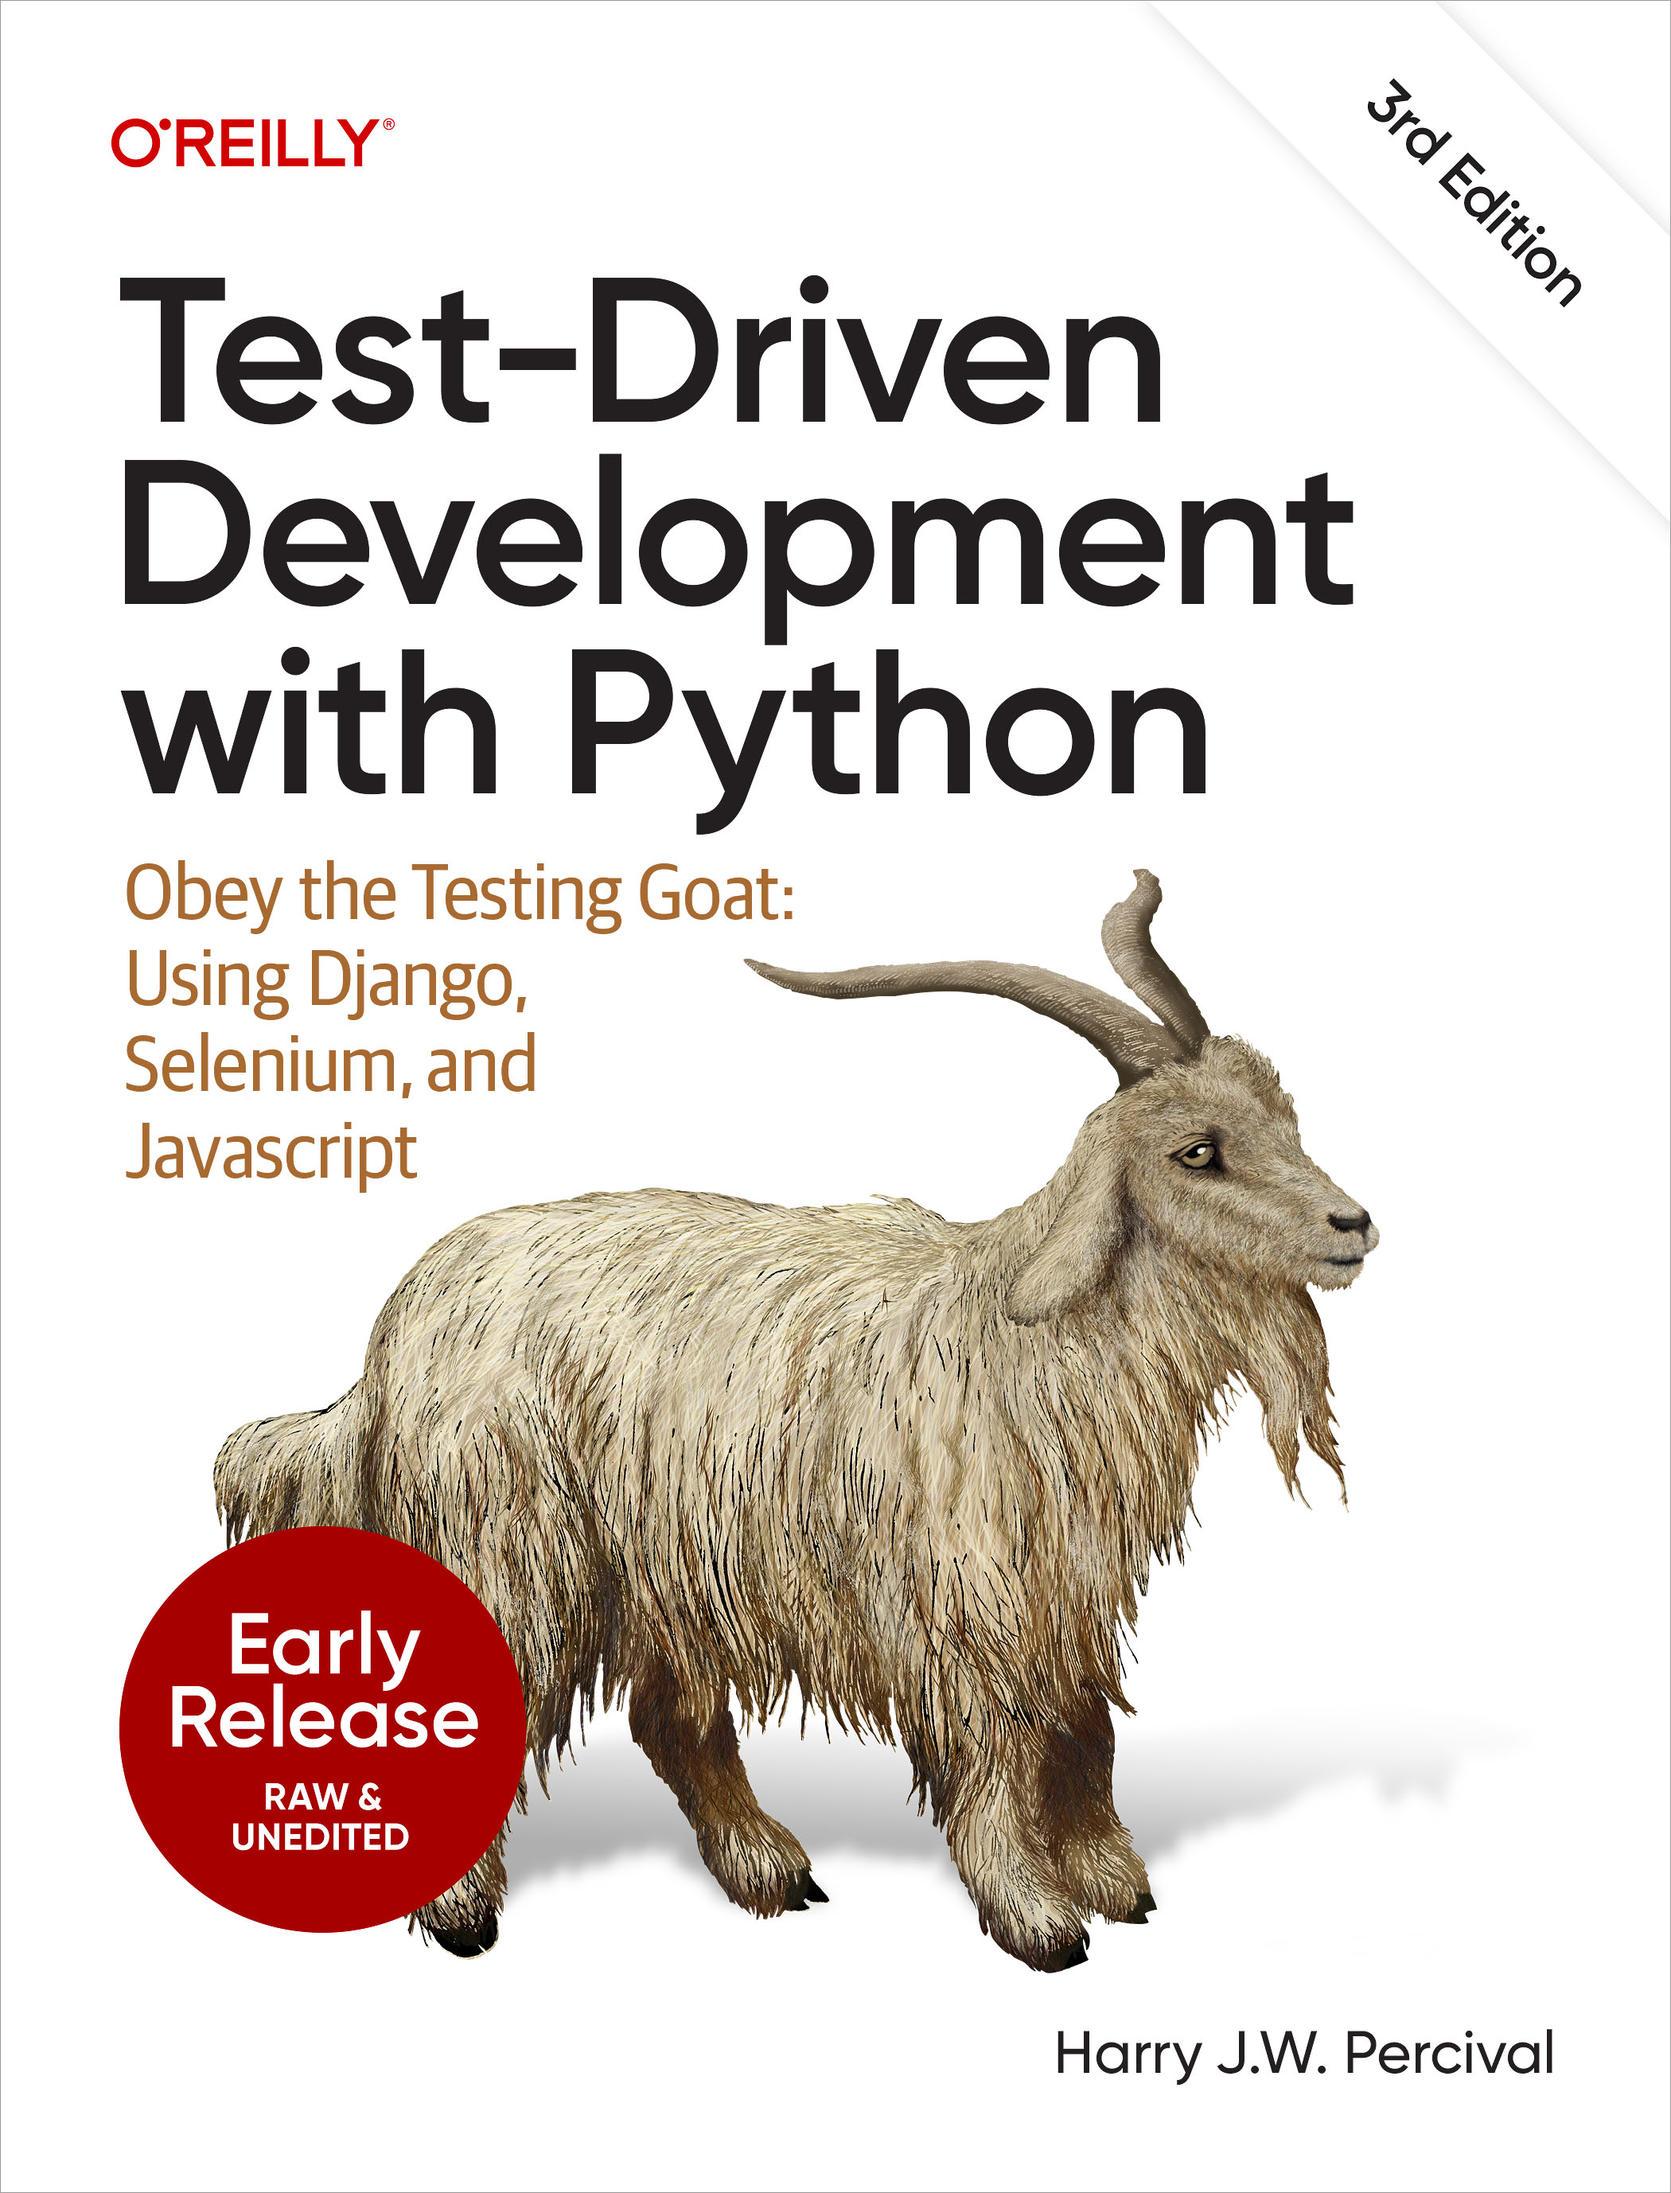
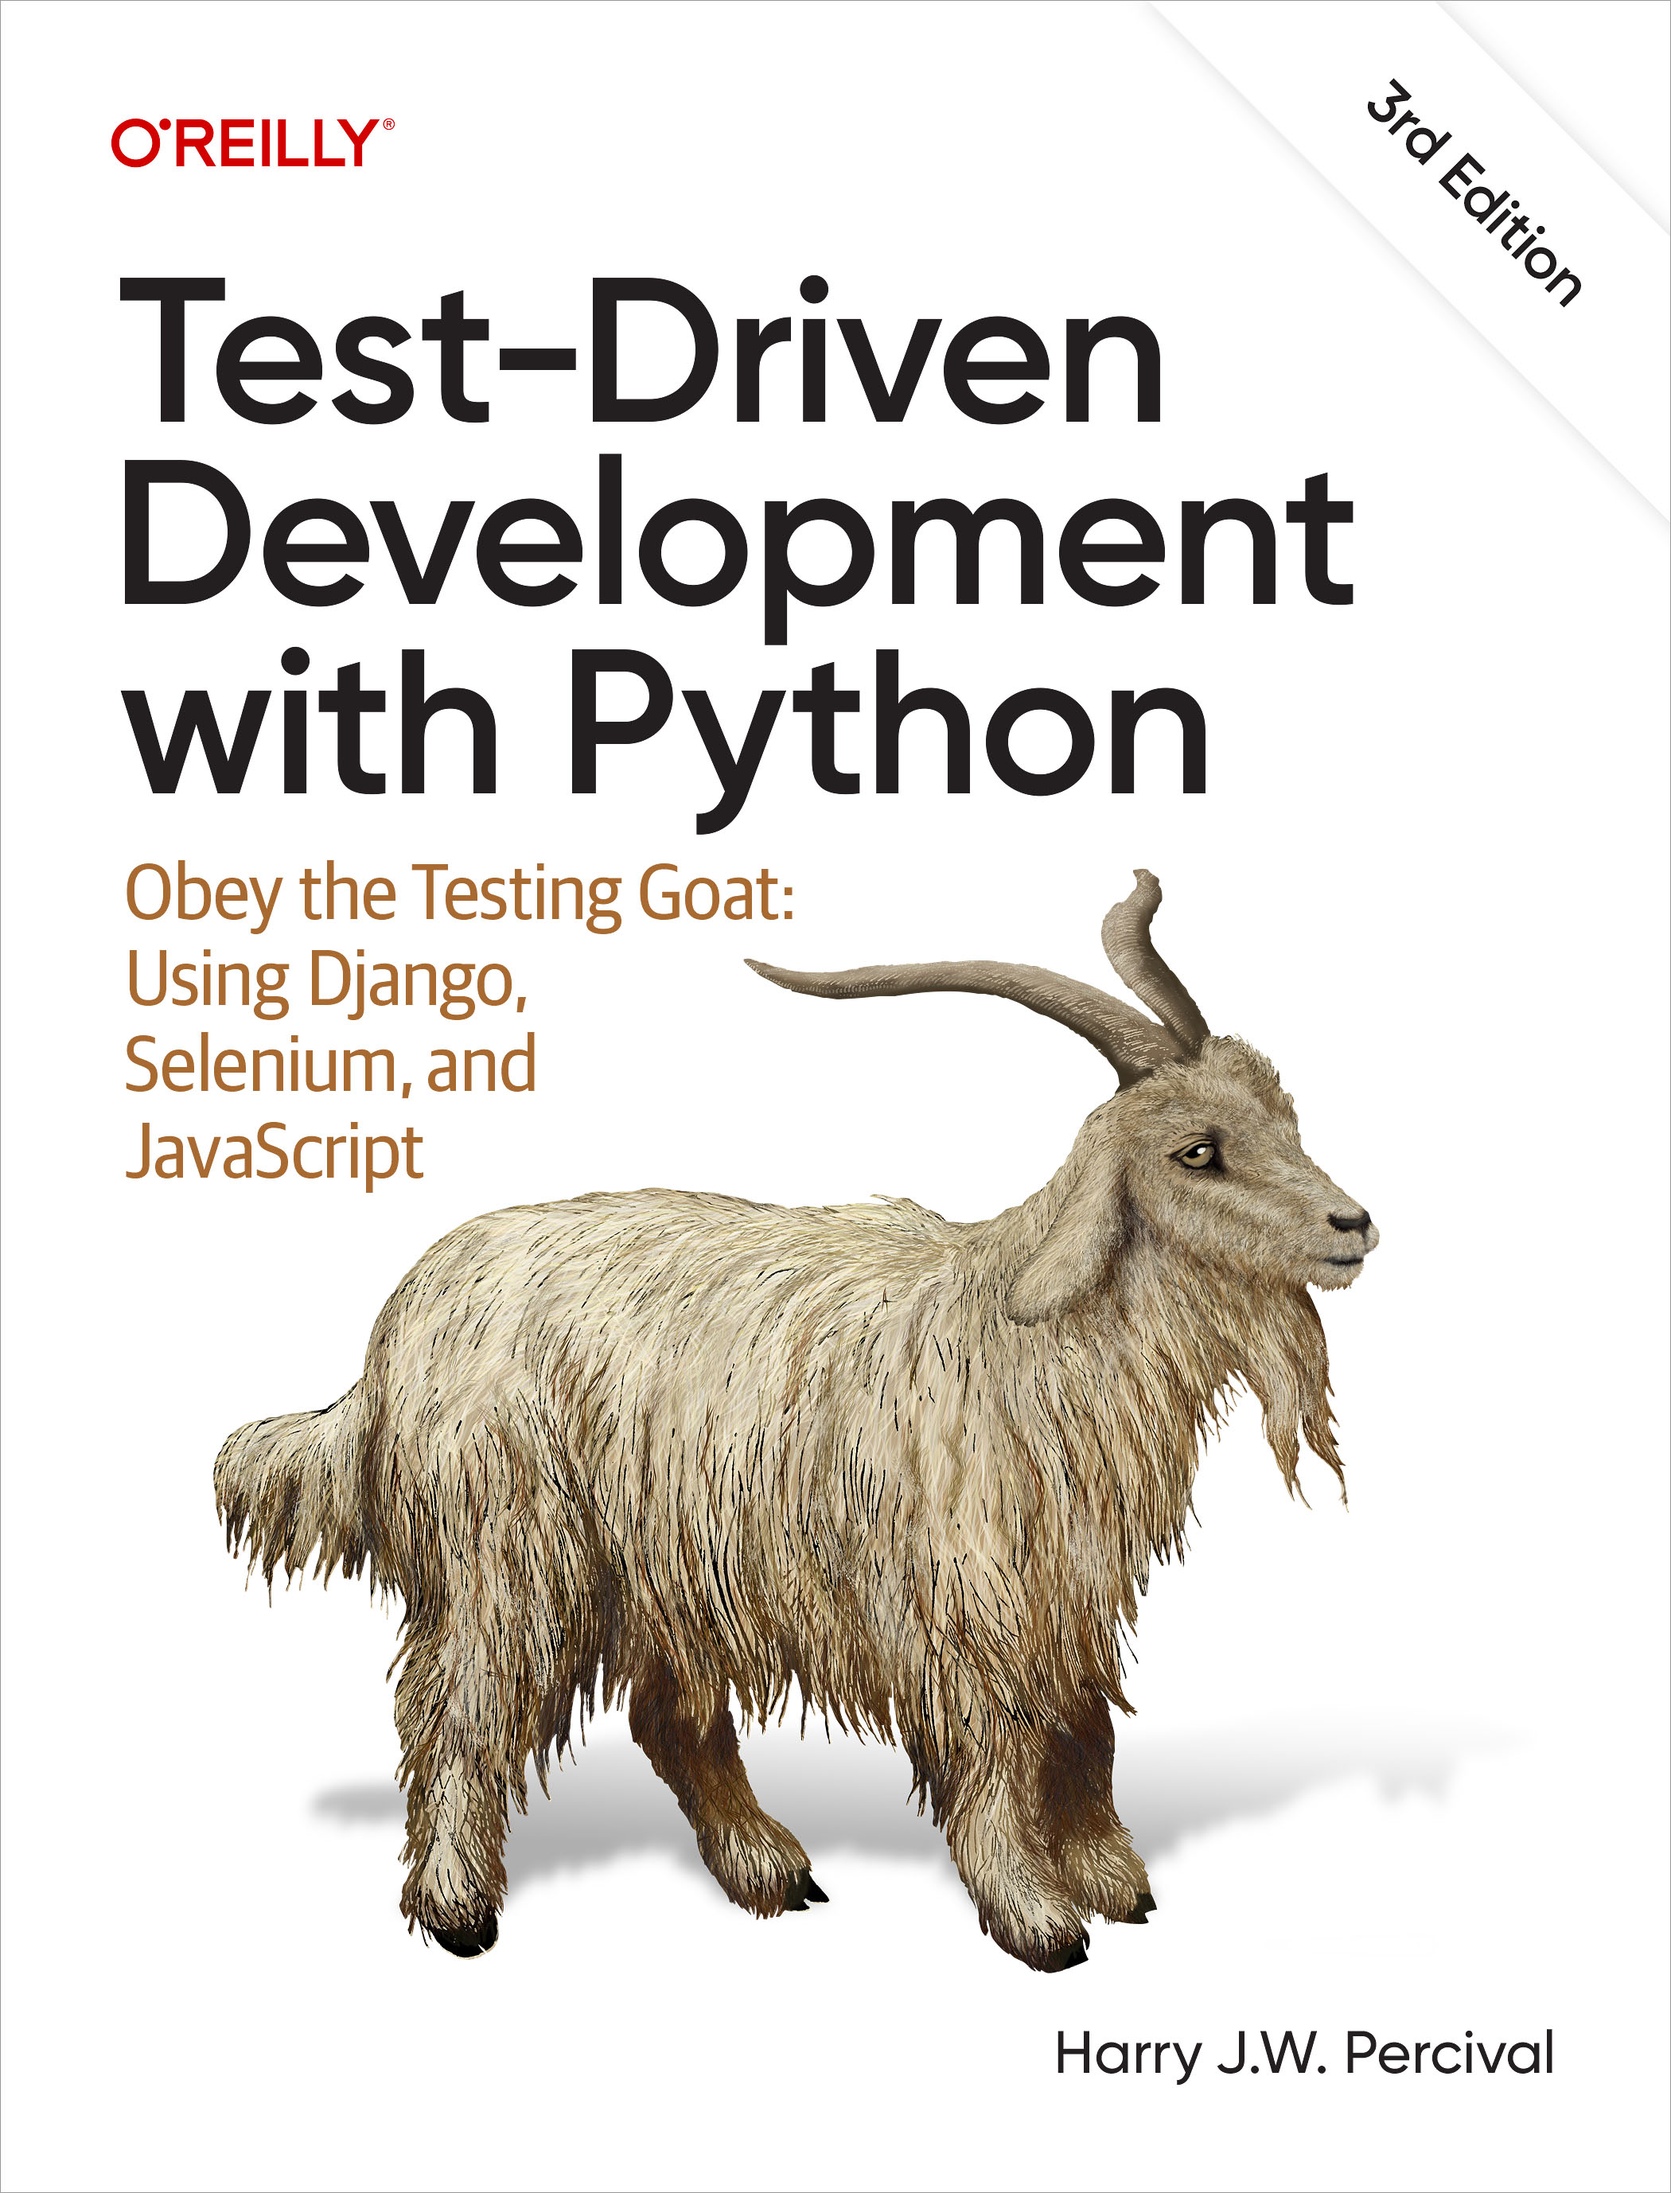
CE edits Preface

Changed region(s): [[0.0619, 0.6865, 0.3405, 0.9049], [0.1548, 0.4993, 0.2476, 0.5617]]

diff --git a/copyright.html b/copyright.html
@@ -1,66 +1,62 @@
-<section data-type="copyright-page" xmlns="http://www.w3.org/1999/xhtml">
-<h1>Test-Driven Development with Python</h1>
+<section data-type="copyright-page">
+      
+  <!--TITLE-->
+  <h1>Test-Driven Development with Python</h1>
+  
+  <!--AUTHOR-->
+  <p class="author">by <span class="firstname">Harry</span> <span class="othername mi">J.W.</span> <span class="surname">Percival</span></p>
+  
+  <!-- COPYRIGHT -->
+  <p class="copyright">Copyright © 2025 Harry Percival. All rights reserved.</p>
+  
+  <!--PUBLISHER-->
+  <p class="publisher">Published by <span class="publishername">O’Reilly Media, Inc.</span>, 141 Stony Circle, Suite 195, Santa Rosa, CA 95401.</p>
+  
+  <p>O’Reilly books may be purchased for educational, business, or sales promotional use. Online editions are also available for most
+	  titles (<a href="https://oreilly.com"><em>https://oreilly.com</em></a>). For more information, contact our corporate/institutional sales department: 800-998-9938 or <a class="email" href="mailto:corporate@oreilly.com"><em>corporate@oreilly.com</em></a>.</p>
 
-<p class="author">by <span class="firstname">Harry </span> <span class="othername mi">J.W. </span> <span class="surname">Percival</span></p>
+  <!--STAFF LIST-->
+  <ul class="stafflist">
+   <li><span class="staffrole">Acquisitions Editor: </span>Brian Guerin</li>    
+    <li><span class="staffrole">Development Editor: </span>Rita Fernando</li>
+    <li><span class="staffrole">Production Editor: </span>Christopher Faucher</li>
+    <li><span class="staffrole">Copyeditor: </span>Piper Content Partners</li>
+    <li><span class="staffrole">Proofreader: </span>Kim Cofer</li>
+    <li><span class="staffrole">Indexer: </span>Ellen Troutman-Zaig</li>
+    <li><span class="staffrole">Cover Designer: </span>Susan Brown</li>
+    <li><span class="staffrole">Cover Illustrator: </span>Karen Montgomery</li>
+    <li><span class="staffrole">Interior Designer: </span>David Futato</li>
+    <li><span class="staffrole">Interior Illustrator: </span>Kate Dullea</li>
+  </ul>
+  
+  <!-- PRINTINGS -->
+  <ul class="printings">
+    <li><span class="printedition">June 2014:</span> First Edition</li>
+		<li><span class="printedition">August 2017:</span> Second Edition</li>
+		<li><span class="printedition">September 2025:</span> Third Edition</li>
+  </ul>  
 
-<p class="copyright">Copyright © 2024 Harry Percival. All rights reserved.</p>
+  <!-- REVISIONS -->
+  <div>
+  <h1 class="revisions">Revision History for the Third Edition</h1>
+  <ul class="releases">
+    <li><span class="revdate">2025-09-17:</span> First Release</li>
+  </ul>
+  </div>
+ 
+  <!-- ERRATA -->
+  <p class="errata">See <a href="https://www.oreilly.com/catalog/errata.csp?isbn=0636920873884">https://www.oreilly.com/catalog/errata.csp?isbn=0636920873884</a> for release details.</p>
 
-<p class="printlocation">Printed in the United States of America.</p>
+  <!--LEGAL-->
+  <div class="legal">
+    <p>The O’Reilly logo is a registered trademark of O’Reilly Media, Inc. <em>Test-Driven Development with Python</em>, the cover image, and related trade dress are trademarks of O’Reilly Media, Inc.</p>
 
-<p class="publisher">Published by <span class="publishername">O'Reilly Media, Inc.</span>, 1005 Gravenstein Highway North, Sebastopol, CA 95472.</p>
+	<p>The views expressed in this work are those of the author, and do not represent the publisher's views. While the publisher and the author have used good faith efforts to ensure that the information and instructions contained in this work are accurate, the publisher and the author disclaim all responsibility for errors or omissions, including without limitation responsibility for damages resulting from the use of or reliance on this work. Use of the information and instructions contained in this work is at your own risk. If any code samples or other technology this work contains or describes is subject to open source licenses or the intellectual property rights of others, it is your responsibility to ensure that your use thereof complies with such licenses and/or rights. <!--PROD: Uncomment the following sentence if appropriate and add it to the above para:--><!--This book is not intended as [legal/medical/financial; use the appropriate reference] advice. Please consult a qualified professional if you require [legal/medical/financial] advice.--></p>
+  </div>
 
-<p>O'Reilly books may be purchased for educational, business, or sales promotional use. Online editions are also available for most titles (<a href="http://oreilly.com">http://oreilly.com</a>). For more information, contact our corporate/institutional sales department: 800-998-9938 or <span data-type="email"><em>corporate@oreilly.com</em></span>.</p>
-
-<ul class="stafflist">
-	<li><span class="staffrole">Acquisitions Editor:</span> Brian Guerin</li>
-	<li><span class="staffrole">Development Editor:</span> Rita Fernando</li>
-	<li><span class="staffrole">Production Editor:</span> Christopher Faucher</li>
-	<!--<li><span class="staffrole">Copyeditor:</span> Kim Cofer</li>
-	<li><span class="staffrole">Proofreader:</span> Rachel Monaghan</li>
-	<li><span class="staffrole">Indexer:</span> Judith McConville</li>-->
-	<li><span class="staffrole">Interior Designer:</span> David Futato</li>
-	<li><span class="staffrole">Cover Designer:</span> Karen Montgomery</li>
-	<!--<li><span class="staffrole">Illustrator:</span> Rebecca Demarest</li>-->
-</ul>
-<!--Add additional printedition spans below as needed.-->
-
-<ul class="printings">
-	<li><span class="printedition">June 2014:</span> First Edition</li>
-	<li><span class="printedition">August 2017:</span> Second Edition</li>
-	<li><span class="printedition">June 2025:</span> Third Edition</li>
-</ul>
-<!--Add additional revdate spans below as needed.-->
-
-<div>
-<h1 class="revisions">Revision History for the Early Release</h1>
-
-<ul class="releases">
-	<li><span class="revdate">2023-07-19:</span> First Release</li>
-	<li><span class="revdate">2023-10-20:</span> Second Release</li>
-	<li><span class="revdate">2024-03-12:</span> Third Release</li>
-	<li><span class="revdate">2024-05-16:</span> Fourth Release</li>
-	<li><span class="revdate">2024-07-23:</span> Fifth Release</li>
-	<li><span class="revdate">2024-08-23:</span> Sixth Release</li>
-	<li><span class="revdate">2024-11-13:</span> Seventh Release</li>
-	<li><span class="revdate">2025-02-20:</span> Eighth Release</li>
-	<li><span class="revdate">2025-04-16:</span> Ninth Release</li>
-</ul>
-</div>
-
-<p class="errata">See <a href="http://oreilly.com/catalog/errata.csp?isbn=9781098148713">http://oreilly.com/catalog/errata.csp?isbn=9781098148713</a> for release details.</p>
-
-<div class="legal">
-<p>The O’Reilly logo is a registered trademark of O’Reilly Media, Inc. <em>Test-Driven Development with Python</em>, the cover image, and related trade dress are trademarks of O’Reilly Media, Inc.</p>
-
-<p>While the publisher and the author have used good faith efforts to ensure that the information and instructions contained in this work are accurate, the publisher and the author disclaim all responsibility for errors or omissions, including without limitation responsibility for damages resulting from the use of or reliance on this work. Use of the information and instructions contained in this work is at your own risk. If any code samples or other technology this work contains or describes is subject to open source licenses or the intellectual property rights of others, it is your responsibility to ensure that your use thereof complies with such licenses and/or rights. <!--PROD: Uncomment the following sentence if appropriate and add it to the 
-        above para:--> <!--This book is not intended as [legal/medical/financial; use the appropriate
-        reference] advice. Please consult a qualified professional if you 
-        require [legal/medical/financial] advice.--></p>
-</div>
-
-<div class="copyright-bottom">
-<p class="isbn">978-1-098-14865-2</p>
-
-<p class="printer">[LSI]</p>
-</div>
+  <div class="copyright-bottom">
+    <p class="isbn">978-1-098-14871-3</p>
+    <p class="printer">[LSI]</p>
+  </div>
+      
 </section>

diff --git a/praise.html b/praise.html
@@ -1,7 +1,7 @@
 <section data-type="dedication" xmlns="http://www.w3.org/1999/xhtml" class="praise">
 <h1>Praise for <em>Test-Driven Development with Python</em></h1>
 <blockquote>
-  <p>In this book, Harry takes us on an adventure of discovery with Python and testing. <span class="keep-together">It’s an excellent</span> book, fun to read and full of vital information. It has my highest recommendations for anyone interested in testing with Python, learning Django, or wanting to use Selenium. Testing is essential for developer sanity and it's a notoriously difficult field, full of trade-offs. Harry does a fantastic job of holding our attention whilst exploring real-world testing practices.</p>
+  <p>In this book, Harry takes us on an adventure of discovery with Python and testing. <span class="keep-together">It’s an excellent</span> book, fun to read, and full of vital information. It has my highest recommendations for anyone interested in testing with Python, learning Django, or wanting to use Selenium. Testing is essential for developer sanity and it's a notoriously difficult field, full of trade-offs. Harry does a fantastic job of holding our attention whilst exploring real-world testing practices.</p>
   <p data-type="attribution">Michael Foord, Python Core Developer and Maintainer <span class="keep-together">of unittest</span></p>
 </blockquote>
 <blockquote>

diff --git a/titlepage.html b/titlepage.html
@@ -5,7 +5,5 @@
 
 <p class="subtitle">Obey the Testing Goat: Using Django, <span class="keep-together">Selenium, and JavaScript</span></p>
 
-<aside class="preview-edition" data-type="sidebar">With Early Release ebooks, you get books in their earliest form—the author's raw and unedited content as they write—so you can take advantage of these technologies long before the official release of these titles.</aside>
-
 <p class="author">Harry J.W. Percival</p>
 </section>
